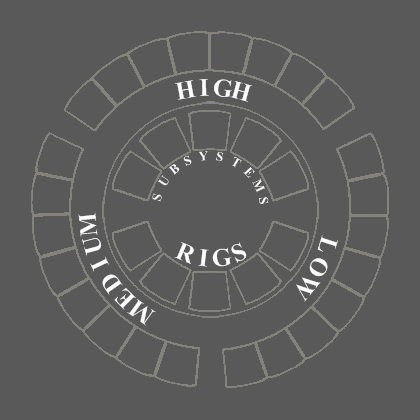
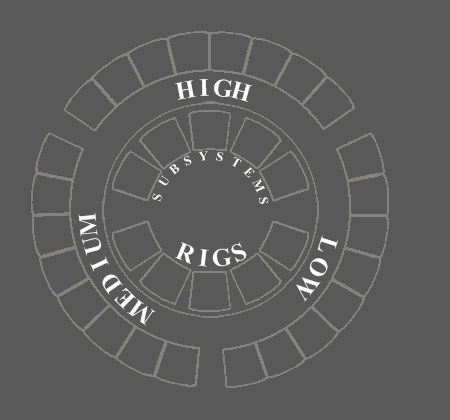
Adding Drone and Charge Support + Some Filtering

Changed region(s): [[0.0619, 0.0619, 0.9286, 0.9286], [0.1238, 0.2167, 0.2476, 0.3095], [0.0929, 0.3095, 0.1548, 0.3714]]

diff --git a/ship.js b/ship.js
@@ -13,7 +13,7 @@ subsystem=["left: 122px; top: 163px","left: 153px; top: 130px","left: 195px; top
 
 jQuery.get(Url,function(json){
 
-    shipdisplay="<div id='loadoutBg' style='background-image: url(http://www.fuzzwork.co.uk/ships/fitting.png); height: 420px; width: 420px; position: relative;' onclick=\"CCPEVE.showFitting('"+json["ship"]["dna"]+"')\">";
+    shipdisplay="<div id='loadoutBg' style='background-image: url(http://www.fuzzwork.co.uk/ships/fitting.png); height: 420px; width: 450px; position: relative;' onclick=\"CCPEVE.showFitting('"+json["ship"]["dna"]+"')\">";
     shipdisplay=shipdisplay+"<div class='shippic' style='position: absolute; height: 64px; width:64px; left: 178px; top:178px;'><img src='http://image.eveonline.com/InventoryType/"+json["ship"]["shipid"]+"_64.png' title='"+json["ship"]["shipname"]+"'></div>";
 
 
@@ -100,23 +100,39 @@ jQuery.get(Url,function(json){
             }
         }
    }
+     slot=1;
+    topspace=37;
+    left=400;
+    for (var i = 0; i < json["drones"].length; i++)
+    {
 
+        for (var key  in json["drones"][i])
+        {
+            parts=key.split(':');
+            shipdisplay+="<div class='drone"+slot+"' style='position: absolute; height: 32px;left: "+left+"px; top: "+topspace+"px'><img src='http://image.eveonline.com/InventoryType/"+parts[1]+"_32.png' title='"+json["drones"][i][key]+" x "+parts[0]+"'></div>";
+            topspace=topspace+35;
+            slot++;
+        }
+   }
+    slot=1
+    topspace=topspace+35
+       for (var i = 0; i < json["charge"].length; i++)
+    {
+
+        for (var key  in json["charge"][i])
+        {
+            parts=key.split(':');
+            shipdisplay+="<div class='charge"+slot+"' style='position: absolute; height: 32px;left: "+left+"px; top: "+topspace+"px'><img src='http://image.eveonline.com/InventoryType/"+parts[1]+"_32.png' title='"+json["charge"][i][key]+" x "+parts[0]+"'></div>";
+            topspace=topspace+35;
+            slot++;
+        }
+   }
 shipdisplay+="</div>";
 
-
-
-
-
-
-
     document.getElementById(div).innerHTML=shipdisplay;
-
-
-
+ 
 });
-
-
-
+ 
 }
 
 

diff --git a/parsedna.php b/parsedna.php
@@ -13,7 +13,9 @@ $med=array();
 $low=array();
 $subsystem=array();
 $ammo=array();
-$rig=array();
+$rig=array();  
+$drones=array();
+$charge=array();
 
 
 $innertypelist=array();
@@ -22,7 +24,7 @@ foreach ( $array as $value)
     $types=explode(";",$value);
     if ($types[0])
     {
-        $innertypelist[]=$types[0];
+        $innertypelist[]=filter_var($types[0],FILTER_SANITIZE_NUMBER_INT);
     }
 }
 
@@ -39,7 +41,7 @@ foreach ($innertypelist as $value)
 
     if ($row = $stmt->fetchObject())
     {
-        $typenames[$row->typeid]=$row->typename;
+        $typenames[$row->typeid]=htmlentities($row->typename, ENT_QUOTES);
         $typeslot[$row->typeid]=$row->effectid;
     }
 }
@@ -49,6 +51,8 @@ $shipid='';
 foreach ( $array as $value)
 {
     $types=explode(";",$value);
+    $types[0]=filter_var($types[0],FILTER_SANITIZE_NUMBER_INT); 
+    $types[1]=filter_var($types[1],FILTER_SANITIZE_NUMBER_INT);
     if ($types[0])
     {
         switch($typeslot[$types[0]])
@@ -72,6 +76,13 @@ foreach ( $array as $value)
         case 3772:
             $subsystem[]=array($typenames[$types[0]].":".$types[0]=>1);
             break;
+        case 18: 
+            $drones[]=array($typenames[$types[0]].":".$types[0]=>(int)$types[1]);
+            break; 
+        case 8: 
+            $charge[]=array($typenames[$types[0]].":".$types[0]=>(int)$types[1]);
+            break;
+            
         } 
     }
 }
@@ -81,7 +92,9 @@ $json["high"]=$high;
 $json["medium"]=$med;
 $json["low"]=$low;
 $json["rig"]=$rig;
-$json["subsystem"]=$subsystem;
+$json["subsystem"]=$subsystem;  
+$json["drones"]=$drones;  
+$json["charge"]=$charge;
 
 echo json_encode($json);
 
